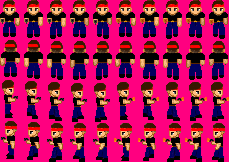
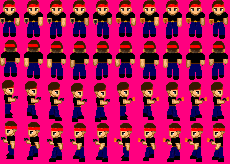
Zmiany

Changed region(s): [[0.0, 0.0, 1.0, 1.0], [0.0, 0.679, 0.0917, 0.9877]]

diff --git a/Engine/Game.cpp b/Engine/Game.cpp
@@ -28,7 +28,7 @@ Game::Game(MainWindow& wnd)
     gfx(wnd),
     frame(Vec2D(0, 0), Vec2D(0, 0), Graphics::ScreenWidth, Graphics::ScreenHeight),
     mov(0, 0),
-    player(Object(Vec2D(56, 52), Vec2D(2, 2), 21, 40), 100, true, new Glock( 0,  100,  1,  150,  1, 1))
+    player(Object(Vec2D(56, 52), Vec2D(2, 2), 23, 41), 100, true, new Glock( 0,  100,  1,  150,  1, 1))
 {  
    enemy.push_back(new Zombie(Object(Vec2D(100, 500), Vec2D(1, 1), 32, 48),100,50,true,5));
    enemy.push_back(new Zombie(Object(Vec2D(200, 500), Vec2D(1, 1), 32, 48), 100, 50, true, 5));
@@ -47,8 +47,9 @@ void Game::UpdateModel()
 {
     float clock = ft.Mark();
     for (auto opponent : enemy) {
-    opponent->Movement(clock, player.getObject());
-    opponent->CheckCollisions(board.GetObstacles());}
+    opponent->Movement(clock, player.getObject(), board.GetObstacles());
+   
+    }
     
     if (wnd.kbd.KeyIsPressed(VK_UP)) { player.Movement(false, false, true, false, clock,board.GetObstacles()); }
     if (wnd.kbd.KeyIsPressed(VK_DOWN)) { player.Movement(false, false, false, true, clock, board.GetObstacles()); }

diff --git a/Engine/Player.cpp b/Engine/Player.cpp
@@ -113,8 +113,14 @@ Player::Player(Object obj, float hel,bool isAlive,Weapon * weapon):object(obj),h
 	for (int i = 0; i < (int)Sequences::StandDown; i++) {
 		animations.emplace_back(Animation(0, obj.height * i, obj.width, obj.height, 4, surface, 0.1f));
 	}
-	for (int i = (int)Sequences::StandDown; i < (int)Sequences::Count; i++) {
+	for (int i = (int)Sequences::StandDown; i < (int)Sequences::StandDownWithShot; i++) {
 		animations.emplace_back(Animation(0, obj.height * (i-(int)Sequences::StandDown), obj.width, obj.height ,1, surface, 0.1f));
+	}
+	for (int i = 0; i < (int)Sequences::StandDownWithShot; i++) {
+		animations.emplace_back(Animation(5*obj.width, obj.height * i, obj.width, obj.height, 4, surface, 0.1f));
+	}
+	for (int i = (int)Sequences::StandDownWithShot; i < (int)Sequences::Count; i++) {
+		animations.emplace_back(Animation(5 * obj.width, obj.height * (i - (int)Sequences::StandDownWithShot), obj.width, obj.height, 1, surface, 0.1f));
 	}
 }
 

diff --git a/Engine/Glock.cpp b/Engine/Glock.cpp
@@ -36,7 +36,7 @@ bool compare_distance(Enemy * obj1 , Enemy * obj2){
 	return obj1->distance < obj2->distance;
 }
 
-void Glock::Shoot(bool aimsRight, bool aimsLeft, bool aimsDown, bool aimsUp,std::vector<Enemy*> enemy, const Vec2D& pos)
+int Glock::Shoot(bool aimsRight, bool aimsLeft, bool aimsDown, bool aimsUp,std::vector<Enemy*> enemy, const Vec2D& pos)
 {
  	calculatePossibleShot(aimsRight, aimsLeft, aimsDown, aimsDown, pos);
 	std::vector<Enemy*> avaliableTarget;
@@ -51,9 +51,13 @@ void Glock::Shoot(bool aimsRight, bool aimsLeft, bool aimsDown, bool aimsUp,std:
 		}
 	}
 	std::stable_sort(avaliableTarget.begin(), avaliableTarget.end(), compare_distance);
-	if(!avaliableTarget.empty())
-	avaliableTarget[0]->Hitted(damage);
-	CleanVector();
+	if (!avaliableTarget.empty()) {
+		
+		avaliableTarget[0]->Hitted(damage);
+		CleanVector();
+		//if(aimsRight)
+	}
+	
 
 }
 void Glock::CleanVector() {

diff --git a/Engine/Player.h b/Engine/Player.h
@@ -23,8 +23,17 @@ class Player
 		StandUp,
 		StandRight,
 		StandLeft,
+		WalkingDownWithShot,
+		WalkingUpWithShot,
+		WalkingRightWithShot,
+		WalkingLeftWithShot,
+		StandDownWithShot,
+		StandUpWithShot,
+		StandRightWithShot,
+		StandLeftWithShot,
 		Count
 	};
+	
 	float health;
 	bool isAlive;
 	bool aimsRight;
@@ -34,7 +43,7 @@ class Player
 	Object object;
 	Sequences iCurrentSeqence = Sequences::StandDown;
 	std::vector<Animation>animations;
-	Surface surface = Surface("player.png", 110, 161);
+	Surface surface = Surface("player_glock.png", 230, 164);
 	std::vector<Vec2D> canBeHit;
 	Weapon * weapon = nullptr;
 	public:

diff --git a/Engine/Glock.h b/Engine/Glock.h
@@ -7,7 +7,7 @@ class Glock :
 public:
 	Glock(int neededPoints, float damage, float rof, float distance, float spread, int ammo) :Weapon(neededPoints, damage, rof, distance, spread, ammo){}
 	void calculatePossibleShot(bool aimsRight, bool aimsLeft, bool aimsDown, bool aimsUp,const Vec2D& pos);
-	void Shoot(bool aimsRight, bool aimsLeft, bool aimsDown, bool aimsUp,std::vector<Enemy*> enemy, const Vec2D& pos)override;
+	int Shoot(bool aimsRight, bool aimsLeft, bool aimsDown, bool aimsUp,std::vector<Enemy*> enemy, const Vec2D& pos)override;
 	bool CheckIfEnemyCanBeHitted(const Enemy* enemy);
 	void CleanVector();
 };

diff --git a/Engine/Weapon.h b/Engine/Weapon.h
@@ -18,5 +18,5 @@ protected:
 	//Sound sound;
 public:
 	Weapon(int neededPoints, float damage, float rof, float distance, float spread, int ammo);
-	virtual void Shoot(bool aimsRight, bool aimsLeft, bool aimsDown, bool aimsUp,std::vector<Enemy*> enemy, const Vec2D& pos)=0;
+	virtual int Shoot(bool aimsRight, bool aimsLeft, bool aimsDown, bool aimsUp,std::vector<Enemy*> enemy, const Vec2D& pos)=0;
 };
